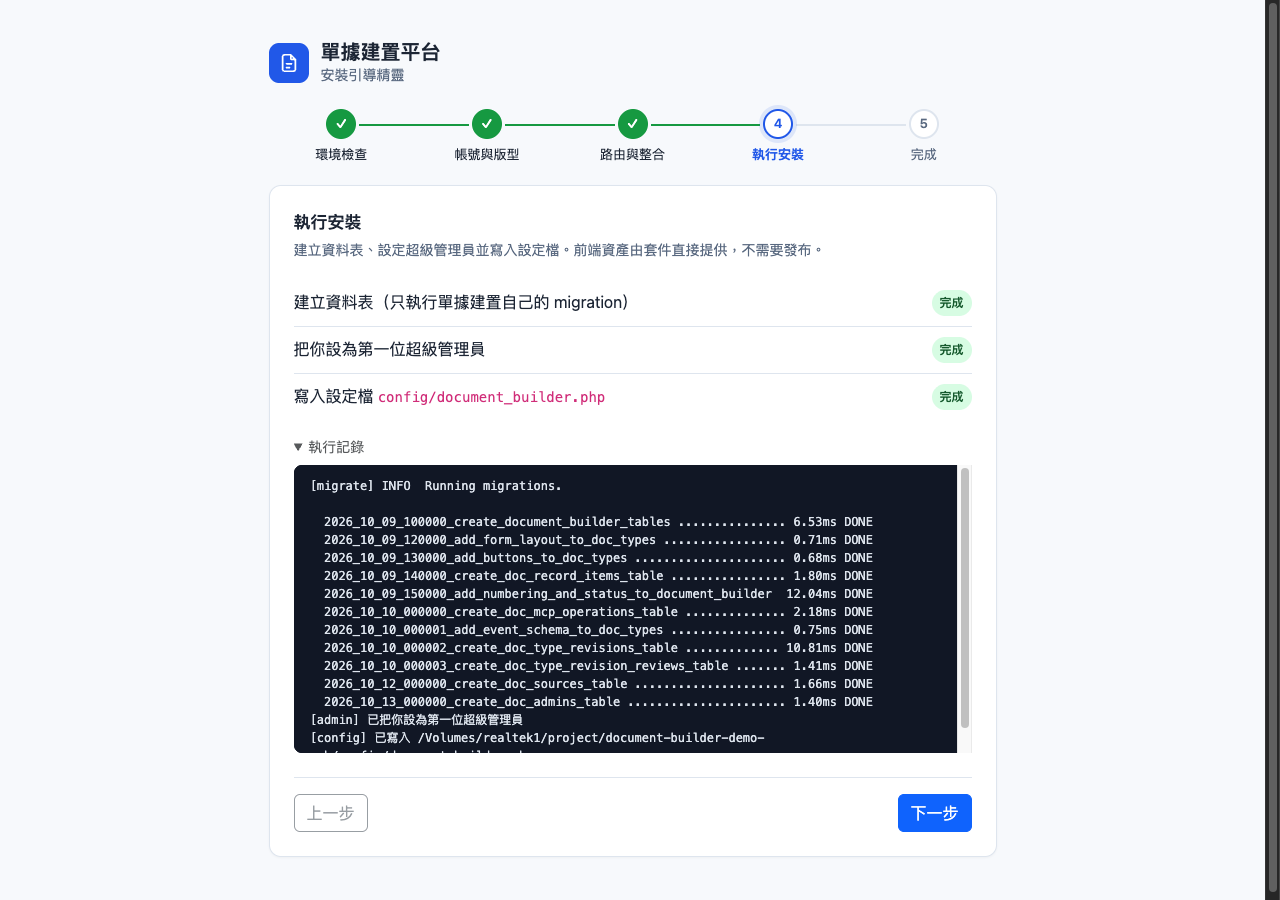
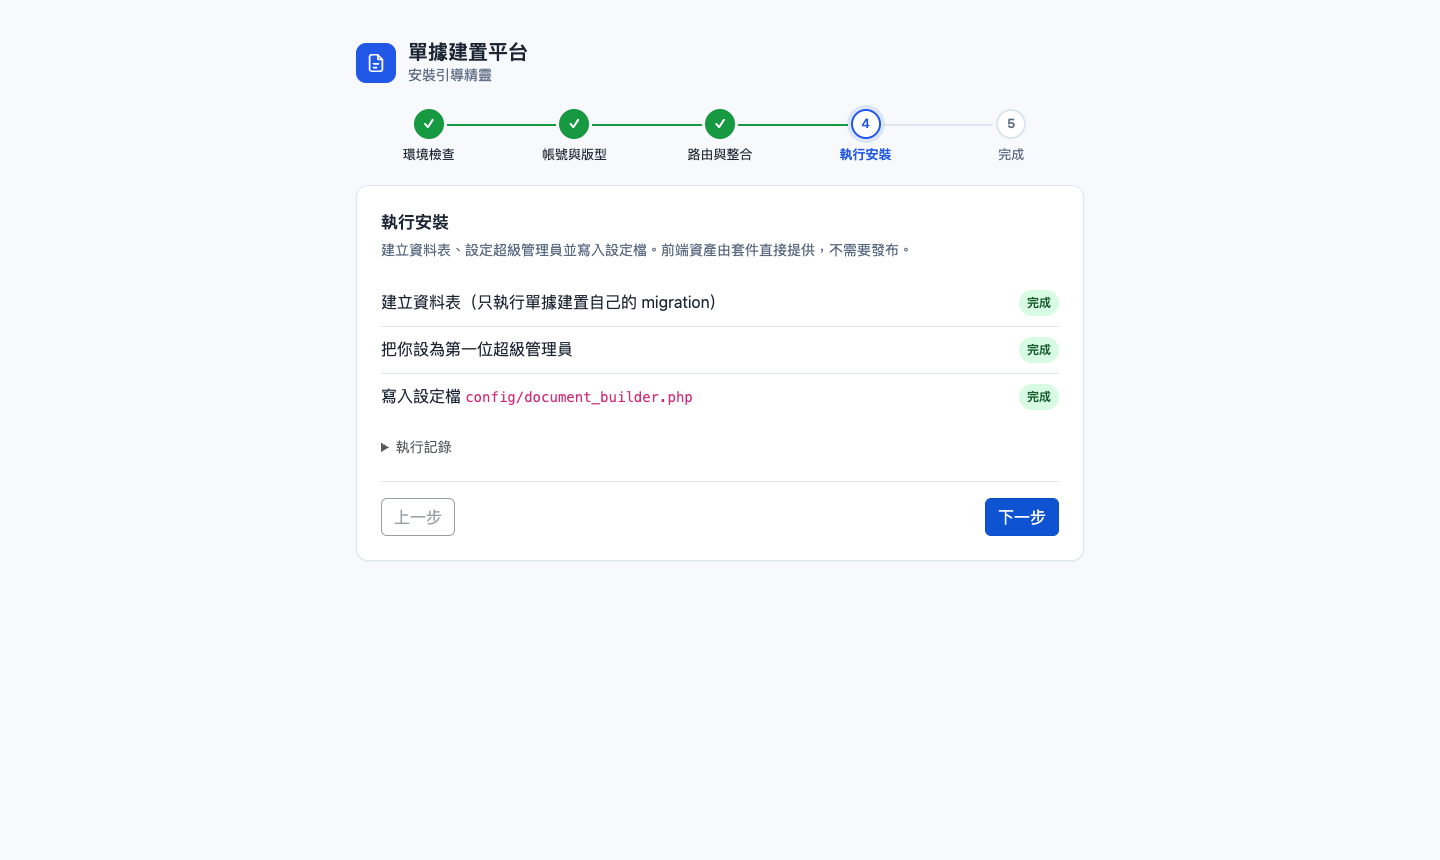
fix: SQLite 上套件 migration 無法回滾；README 補上安裝精靈畫面
SQLite 不能刪外鍵，也不能刪帶外鍵的欄位，所以 doc_records 的
status_id、form_revision_id 在 SQLite 回滾時保留（可為空），up
遇到已存在的欄位會略過。完整回滾時整張表本來就會刪掉。新增
回滾後再重建的測試。

README 開頭的畫面區加上安裝精靈，安裝段落補上第 3 步「路由與
整合」，5 張精靈截圖全部重拍。

diff --git a/database/migrations/2026_10_09_150000_add_numbering_and_status_to_document_builder.php b/database/migrations/2026_10_09_150000_add_numbering_and_status_to_document_builder.php
@@ -42,7 +42,10 @@ return new class extends Migration
 
         Schema::table('doc_records', function (Blueprint $table) {
             $table->string('no', 60)->nullable()->after('doc_date')->comment('建立後固定不變的單號');
-            $table->foreignId('status_id')->nullable()->after('no')->constrained('doc_statuses')->restrictOnDelete();
+            // SQLite 回滾時會保留這個欄位（見 down），重新執行時不要重複建立
+            if (! Schema::hasColumn('doc_records', 'status_id')) {
+                $table->foreignId('status_id')->nullable()->after('no')->constrained('doc_statuses')->restrictOnDelete();
+            }
             $table->unique(['doc_type_id', 'no']);
         });
 
@@ -96,8 +99,13 @@ return new class extends Migration
     {
         Schema::table('doc_records', function (Blueprint $table) {
             $table->dropUnique('doc_records_doc_type_id_no_unique');
-            $table->dropForeign('doc_records_status_id_foreign');
-            $table->dropColumn(['no', 'status_id']);
+            // SQLite 不能刪外鍵，也不能刪帶外鍵的欄位：保留 status_id（可為空），up 時會略過已存在的欄位
+            if (Schema::getConnection()->getDriverName() === 'sqlite') {
+                $table->dropColumn('no');
+            } else {
+                $table->dropForeign('doc_records_status_id_foreign');
+                $table->dropColumn(['no', 'status_id']);
+            }
         });
 
         Schema::dropIfExists('doc_sequences');

diff --git a/database/migrations/2026_10_10_000002_create_doc_type_revisions_table.php b/database/migrations/2026_10_10_000002_create_doc_type_revisions_table.php
@@ -33,15 +33,21 @@ return new class extends Migration
             $table->unsignedBigInteger('published_revision_id')->nullable()->index();
         });
 
-        Schema::table('doc_records', function (Blueprint $table): void {
-            $table->foreignId('form_revision_id')->nullable()->constrained('doc_type_revisions')->nullOnDelete();
-        });
+        // SQLite 回滾時會保留這個欄位（見 down），重新執行時不要重複建立
+        if (! Schema::hasColumn('doc_records', 'form_revision_id')) {
+            Schema::table('doc_records', function (Blueprint $table): void {
+                $table->foreignId('form_revision_id')->nullable()->constrained('doc_type_revisions')->nullOnDelete();
+            });
+        }
     }
 
     public function down(): void
     {
         Schema::table('doc_records', function (Blueprint $table): void {
-            $table->dropConstrainedForeignId('form_revision_id');
+            // SQLite 不能刪外鍵，也不能刪帶外鍵的欄位：保留 form_revision_id（可為空），up 時會略過已存在的欄位
+            if (Schema::getConnection()->getDriverName() !== 'sqlite') {
+                $table->dropConstrainedForeignId('form_revision_id');
+            }
         });
 
         Schema::table('doc_types', function (Blueprint $table): void {

diff --git a/tests/Feature/MigrationRollbackTest.php b/tests/Feature/MigrationRollbackTest.php
@@ -1,0 +1,27 @@
+<?php
+
+declare(strict_types=1);
+
+namespace DocumentBuilder\Tests\Feature;
+
+use DocumentBuilder\Tests\TestCase;
+use Illuminate\Support\Facades\Artisan;
+use Illuminate\Support\Facades\Schema;
+
+/** 套件的 migration 要能完整回滾（含 SQLite，測試環境就是 SQLite） */
+class MigrationRollbackTest extends TestCase
+{
+    public function test_套件資料表可以全部回滾再重建(): void
+    {
+        $path = realpath(__DIR__.'/../../database/migrations');
+        $this->assertTrue(Schema::hasTable('doc_type_revisions'));
+
+        $this->assertSame(0, Artisan::call('migrate:reset', ['--path' => $path, '--realpath' => true, '--force' => true]), Artisan::output());
+        foreach (['doc_types', 'doc_records', 'doc_type_revisions', 'doc_sources', 'doc_admins'] as $table) {
+            $this->assertFalse(Schema::hasTable($table), "{$table} 應該已移除");
+        }
+
+        $this->assertSame(0, Artisan::call('migrate', ['--path' => $path, '--realpath' => true, '--force' => true]), Artisan::output());
+        $this->assertTrue(Schema::hasTable('doc_type_revisions'));
+    }
+}

diff --git a/README.md b/README.md
@@ -20,6 +20,10 @@
 
 ![來源設定](docs/screenshots/05-source-form.png)
 
+**安裝引導精靈**：`composer require` 之後全部在網頁上完成，不需要下任何指令（完整 5 步見[安裝](#安裝)）
+
+![安裝精靈：執行安裝](docs/screenshots/setup-4-run.png)
+
 <details>
 <summary>其他畫面</summary>
 
@@ -78,11 +82,13 @@ composer require document-builder/document-builder
 4. **執行安裝**：只執行單據建置自己的 migration、把你設為第一位超級管理員、寫入 `config/document_builder.php`，每一步顯示進度與執行記錄。
 5. **完成**：一鍵匯入範本（樣品申請單）直接進設計器；管理超級管理員名單。
 
-| 環境檢查 | 帳號與版型 |
+| 1. 環境檢查 | 2. 帳號與版型 |
 |---|---|
 | ![環境檢查](docs/screenshots/setup-1-check.png) | ![帳號與版型](docs/screenshots/setup-2-auth.png) |
-| **執行安裝** | **完成** |
-| ![執行安裝](docs/screenshots/setup-4-run.png) | ![完成](docs/screenshots/setup-5-done.png) |
+| **3. 路由與整合** | **4. 執行安裝** |
+| ![路由與整合](docs/screenshots/setup-3-route.png) | ![執行安裝](docs/screenshots/setup-4-run.png) |
+| **5. 完成** | |
+| ![完成](docs/screenshots/setup-5-done.png) | |
 
 **安全**：本機開發環境（`APP_ENV=local`）可以直接安裝；其他環境要先在 `.env` 加上
 `DOCUMENT_BUILDER_SETUP_TOKEN=自訂的一串密碼`，在精靈第一步輸入它，避免被別人搶先安裝成為超級管理員。
